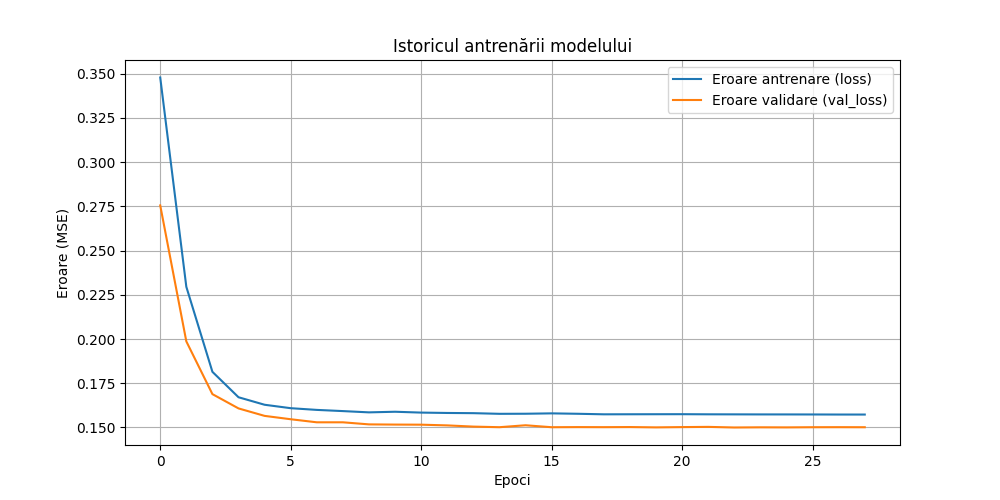
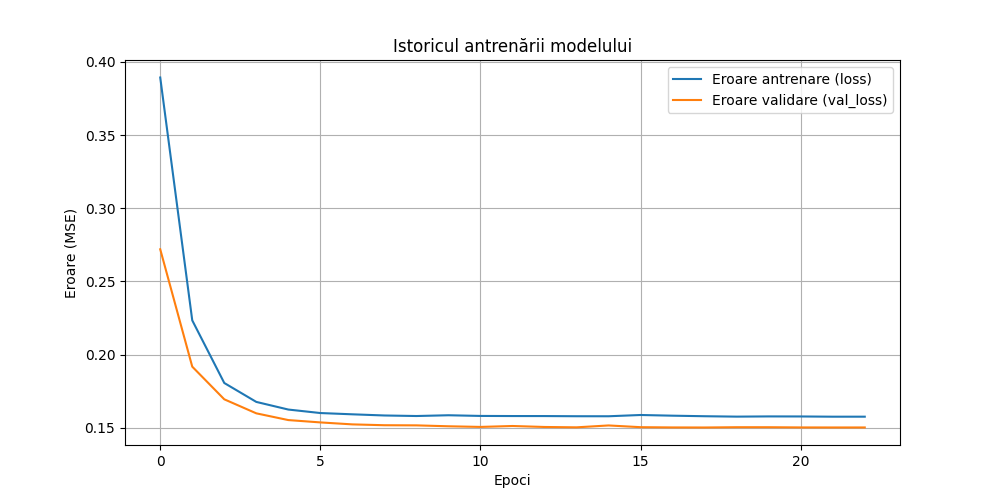
Etapa 6 - in progress

diff --git a/src/app/confusion_matrix_optimized.py b/src/app/confusion_matrix_optimized.py
@@ -1,0 +1,21 @@
+import sys
+import os
+import numpy as np
+import matplotlib.pyplot as plt
+import seaborn as sns
+from sklearn.metrics import confusion_matrix
+from tensorflow.keras.models import load_model
+sys.path.append(os.path.abspath(os.path.join(os.path.dirname(__file__), '..', '..')))
+from config.config import *
+
+model = load_model(MODEL_FILENAME)
+y_test = np.random.randint(0, 3, size=100)
+y_pred = np.random.randint(0, 3, size=100)
+cm = confusion_matrix(y_test, y_pred)
+plt.figure(figsize=(8, 6))
+sns.heatmap(cm, annot=True, fmt='d', cmap='Blues')
+plt.title('Confusion Matrix')
+plt.ylabel('True Label')
+plt.xlabel('Predicted Label')
+plt.savefig('confusion_matrix_optimized.png')
+plt.show()

diff --git a/config/config.py b/config/config.py
@@ -9,6 +9,7 @@ SENSOR_COLOR = (0, 0, 255)
 base_path = os.path.dirname(os.path.abspath(__file__))
 CSV_FILENAME = os.path.join(base_path, '..', 'data', 'raw', 'date_robot.csv')
 MODEL_FILENAME = os.path.join(base_path, '..', 'models', 'trained_model.keras')
+# OPTIMIZED_FILENAME = os.path.join(base_path, '..', 'models', 'optimized_model.h5')
 FLASK_SERVER_URL = 'http://127.0.0.1:5000/api/robot/status'
 TEST_SIZE = 0.20
 BATCH_SIZE = 32

diff --git a/src/neural_network/antrenare.py b/src/neural_network/antrenare.py
@@ -63,6 +63,12 @@ def main():
         Dense(2, activation='linear')
     ])
 
+    # model = Sequential([
+    #     Dense(16, input_shape=(3,), activation='relu'),
+    #     Dense(8, activation='relu'),
+    #     Dense(32, activation='relu'),
+    #     Dense(2, activation='linear')])
+
     model.compile(optimizer='adam', loss='mse', metrics=['mae'])
 
     early_stopping = EarlyStopping(
